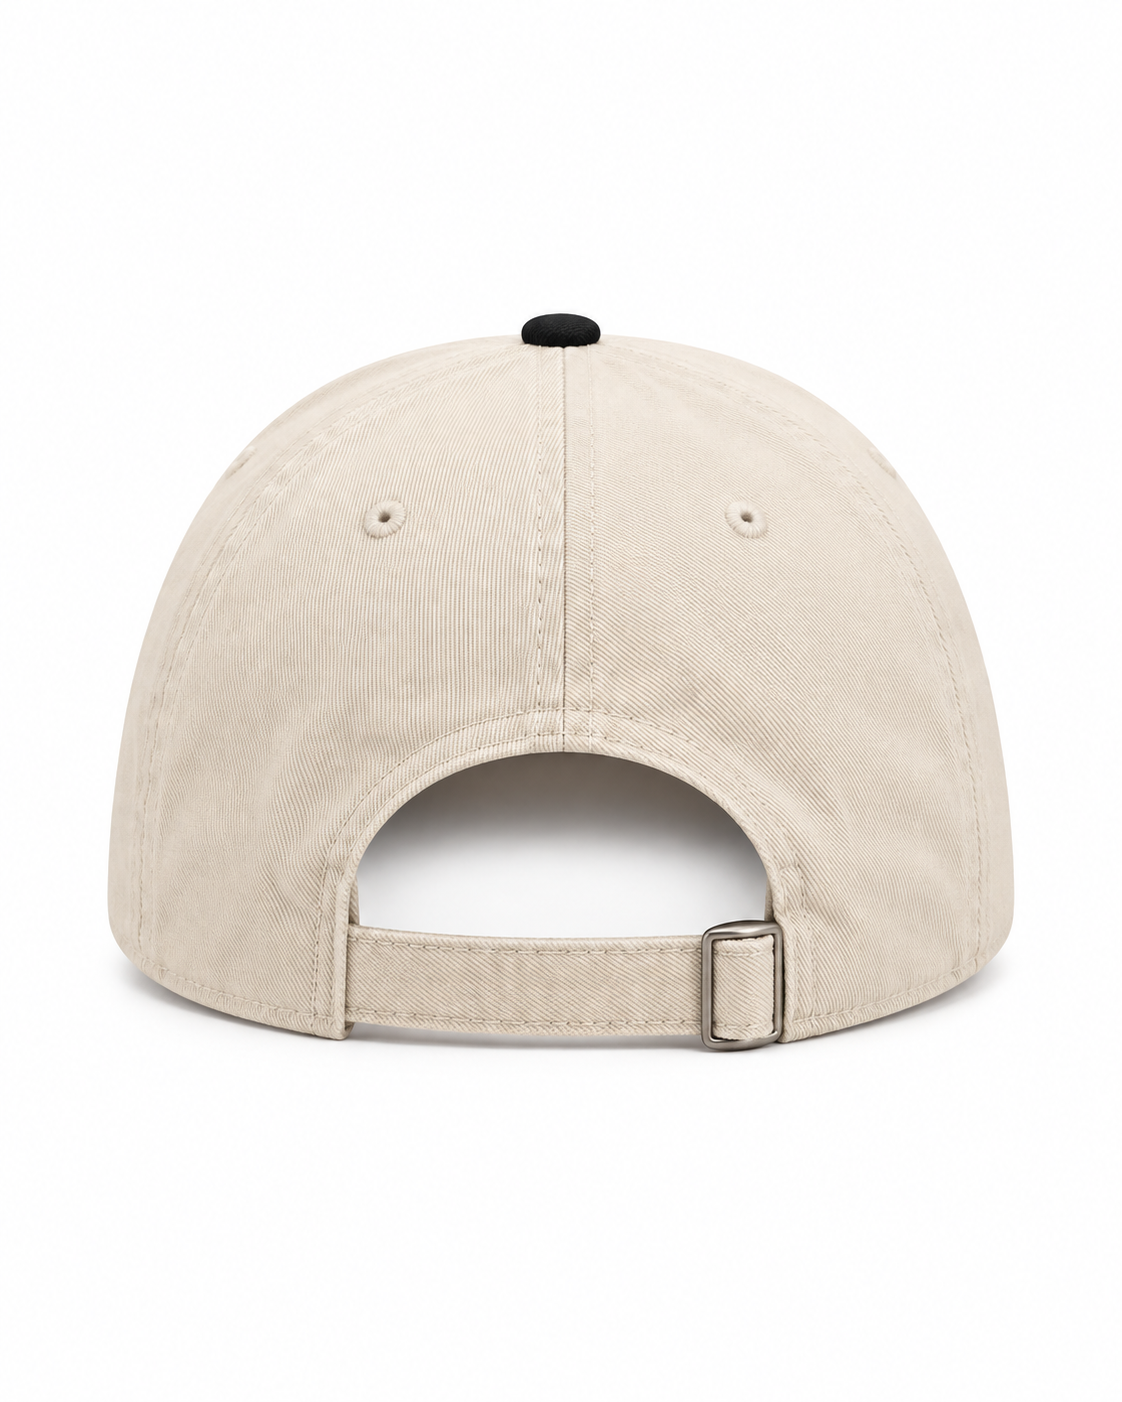
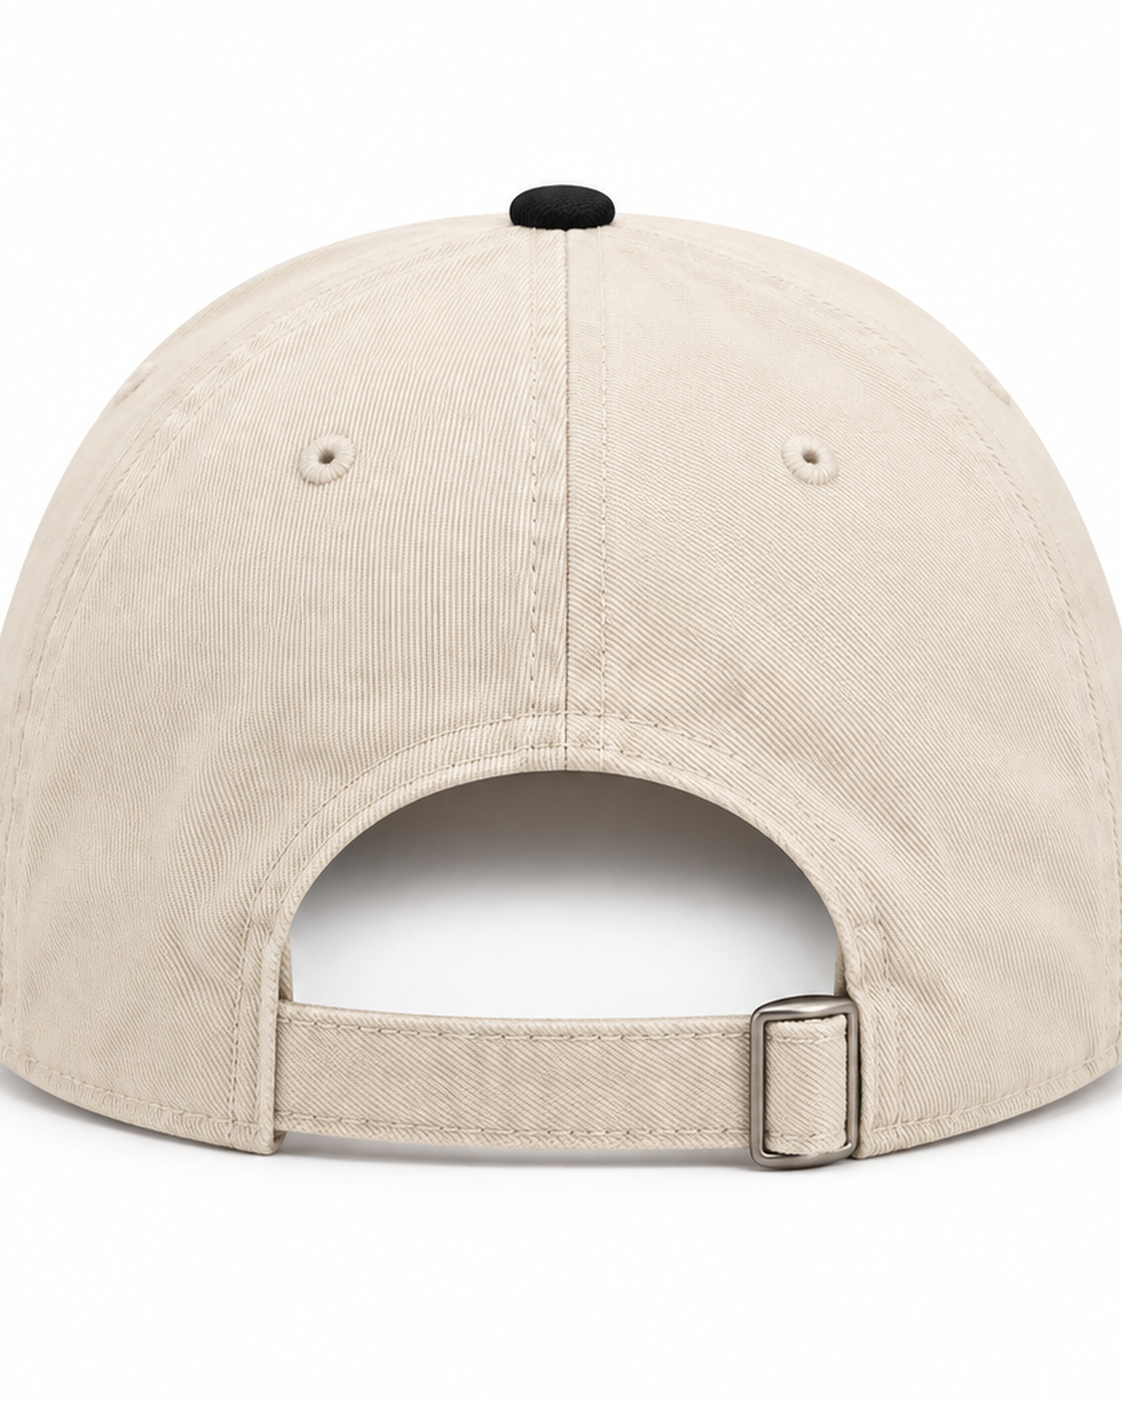
Lead the Two-Tone Club Cap with a hat-zoom hero.
Crop the worn plate onto the Gothic B for lookbook, people/places, and the PDP lead. Tighten the studio front and back so they fill the gallery instead of sitting in empty white.

diff --git a/tests/fall001.test.ts b/tests/fall001.test.ts
@@ -178,24 +178,44 @@ describe("Fall 001 assortment", () => {
 
   it("gives the Two-Tone Club Cap its own front, worn, and back plates", async () => {
     const { galleryShots } = await import("@/lib/imageRegistry");
-    const { readFile } = await import("node:fs/promises");
+    const { readFile, stat } = await import("node:fs/promises");
     const { resolve } = await import("node:path");
     const shots = galleryShots("two-tone-cap");
     const cap = IMAGE_REGISTRY["two-tone-cap"];
+    const listing = productById("two-tone-cap")!;
     const registry = await readFile(resolve(process.cwd(), "src/lib/imageRegistry.ts"), "utf8");
+    const lookbook = await readFile(resolve(process.cwd(), "src/lib/heroSlideshow.ts"), "utf8");
+    const places = await readFile(resolve(process.cwd(), "src/lib/peoplePlaces.ts"), "utf8");
     expect(cap.pending).not.toBe(true);
-    expect(shots).toHaveLength(3);
-    expect(shots[0]?.src).toBe(cap.productFront);
-    expect(shots[1]?.src).toBe(cap.modelFront);
+    expect(shots).toHaveLength(4);
+    expect(shots[0]?.src).toBe(cap.modelFront);
+    expect(shots[1]?.src).toBe(cap.productFront);
     expect(shots[2]?.src).toBe(cap.productBack);
-    expect(new Set(shots.map((s) => s.src)).size).toBe(3);
+    expect(shots[3]?.src).toBe(cap.modelSecondary);
+    expect(new Set(shots.map((s) => s.src)).size).toBe(4);
     expect(shots[0]?.alt).toMatch(/Gothic B/i);
+    expect(shots[1]?.alt).toMatch(/Gothic B/i);
+    expect(listing.thumb).toBe(cap.modelFront);
+    expect(listing.previews.front).toBe(cap.productFront);
+    expect(listing.previews.secondary).toBe(cap.productFront);
+    expect(registry).toContain("two-tone-cap-model-hat.png");
     expect(registry).toContain("two-tone-cap-product-front.png");
     expect(registry).toContain("two-tone-cap-product-back.png");
     expect(registry).toContain("two-tone-cap-model-front.png");
+    expect(lookbook).toContain("two-tone-cap-model-hat.png");
+    expect(places).toContain("two-tone-cap-model-hat.png");
     expect(registry).not.toContain("club-goods-hero");
-    expect(productById("two-tone-cap")?.imageryPending).not.toBe(true);
-    expect(productById("two-tone-cap")?.line).toMatch(/Bone \/ Black/);
+    expect(listing.imageryPending).not.toBe(true);
+    expect(listing.line).toMatch(/Bone \/ Black/);
+    for (const name of [
+      "two-tone-cap-model-hat.png",
+      "two-tone-cap-product-front.png",
+      "two-tone-cap-product-back.png",
+      "two-tone-cap-model-front.png",
+    ]) {
+      const info = await stat(resolve(process.cwd(), "src/assets/bayonne/fall001", name));
+      expect(info.size).toBeGreaterThan(80_000);
+    }
   });
 
   it("does not import expired mascot, boxing-kit, or corrupt plates", async () => {

diff --git a/src/lib/imageRegistry.ts b/src/lib/imageRegistry.ts
@@ -61,6 +61,7 @@ import harborSweatpantGreyModel from "@/assets/bayonne/fall001/harbor-sweatpant-
 import twoToneCapFront from "@/assets/bayonne/fall001/two-tone-cap-product-front.png";
 import twoToneCapBack from "@/assets/bayonne/fall001/two-tone-cap-product-back.png";
 import twoToneCapModel from "@/assets/bayonne/fall001/two-tone-cap-model-front.png";
+import twoToneCapHat from "@/assets/bayonne/fall001/two-tone-cap-model-hat.png";
 import areaCodeCapFront from "@/assets/bayonne/fall001/area-code-cap-product-front.png";
 import areaCodeCapSide from "@/assets/bayonne/fall001/area-code-cap-product-side.png";
 import areaCodeCapBack from "@/assets/bayonne/fall001/area-code-cap-product-back.png";
@@ -260,8 +261,8 @@ export const IMAGE_REGISTRY: Record<CanonicalProductId, ProductImageSet> = {
   "two-tone-cap": {
     productFront: twoToneCapFront,
     productBack: twoToneCapBack,
-    modelFront: twoToneCapModel,
-    modelSecondary: twoToneCapFront,
+    modelFront: twoToneCapHat,
+    modelSecondary: twoToneCapModel,
   },
   "area-code-cap": {
     productFront: areaCodeCapFront,
@@ -476,9 +477,10 @@ const AREA_CODE_CAP_GALLERY: GalleryShot[] = [
 ];
 
 const TWO_TONE_CAP_GALLERY: GalleryShot[] = [
+  { src: twoToneCapHat, alt: "Two-Tone Club Cap, worn, Gothic B on the crown" },
   { src: twoToneCapFront, alt: "Two-Tone Club Cap, bone crown, black bill, garnet Gothic B" },
-  { src: twoToneCapModel, alt: "Two-Tone Club Cap, worn" },
   { src: twoToneCapBack, alt: "Two-Tone Club Cap, self-fabric strap and metal buckle" },
+  { src: twoToneCapModel, alt: "Two-Tone Club Cap, worn" },
 ];
 
 /** Ordered storefront gallery. Never the customizer overlay bases except the dedicated blank back. */

diff --git a/src/lib/heroSlideshow.ts b/src/lib/heroSlideshow.ts
@@ -8,7 +8,7 @@ import type { CategoryId } from "@/lib/catalog";
 
 import lookbookMaxHeavyClose from "@/assets/bayonne/fall001/lookbook-max-heavy-close.jpg";
 import lookbookTravelWomenSeated from "@/assets/bayonne/fall001/lookbook-travel-women-seated.jpg";
-import lookbookTwoToneCap from "@/assets/bayonne/fall001/two-tone-cap-model-front.png";
+import lookbookTwoToneCap from "@/assets/bayonne/fall001/two-tone-cap-model-hat.png";
 import lookbookFieldCargoProfile from "@/assets/bayonne/fall001/lookbook-field-cargo-profile.jpg";
 import lookbookFieldCargoBack from "@/assets/bayonne/fall001/lookbook-field-cargo-back.jpg";
 import lookbookHarborCoachWorn from "@/assets/bayonne/fall001/lookbook-harbor-coach-worn.jpg";
@@ -42,7 +42,7 @@ export const HERO_SLIDES: HeroSlide[] = [
     src: lookbookTwoToneCap,
     productId: "two-tone-cap",
     category: "club",
-    alt: "Two-Tone Club Cap, bone crown, black bill, garnet Gothic B, worn",
+    alt: "Two-Tone Club Cap, worn, Gothic B on the crown",
   },
   {
     id: "field-cargo-profile",

diff --git a/src/lib/peoplePlaces.ts b/src/lib/peoplePlaces.ts
@@ -11,7 +11,7 @@ import travelCouple from "@/assets/bayonne/fall001/travel-couple.png";
 import travelMenFront from "@/assets/bayonne/fall001/travel-men-front.png";
 import travelWomenSeated from "@/assets/bayonne/fall001/lookbook-travel-women-seated.jpg";
 import harborCoachWorn from "@/assets/bayonne/fall001/harbor-coach-worn.png";
-import twoToneCap from "@/assets/bayonne/fall001/two-tone-cap-model-front.png";
+import twoToneCap from "@/assets/bayonne/fall001/two-tone-cap-model-hat.png";
 
 export type PlacePlate = {
   id: string;
@@ -84,7 +84,7 @@ export const PEOPLE_PLACES: PlacePlate[] = [
     productId: "two-tone-cap",
     place: "Club cap",
     caption: "Bone crown. Black bill. Garnet B.",
-    alt: "Two-Tone Club Cap, worn, bone crown and black bill",
+    alt: "Two-Tone Club Cap, worn, Gothic B on the crown",
     span: "standard",
   },
 ];

diff --git a/src/lib/catalog.ts b/src/lib/catalog.ts
@@ -224,7 +224,13 @@ export const PRODUCTS: CatalogProduct[] = [
   listing("area-code-cap", "bayonne-201-area-code-cap", "201 Area Code Cap", "club", 48, {
     sizeChart: "hat",
   }),
-  listing("two-tone-cap", "bayonne-two-tone-club-cap", "Two-Tone Club Cap", "club", 36, { sizeChart: "hat" }),
+  listing("two-tone-cap", "bayonne-two-tone-club-cap", "Two-Tone Club Cap", "club", 36, {
+    sizeChart: "hat",
+    previews: {
+      front: imagesFor("two-tone-cap").productFront!,
+      secondary: imagesFor("two-tone-cap").productFront!,
+    },
+  }),
   listing("gothic-b-beanie", "bayonne-gothic-b-beanie", "Gothic B Beanie — Black", "club", 34, { sizeChart: "hat" }),
   listing("gothic-b-beanie-brown", "bayonne-gothic-b-beanie-brown", "Gothic B Beanie — Brown", "club", 34, {
     sizeChart: "hat",
